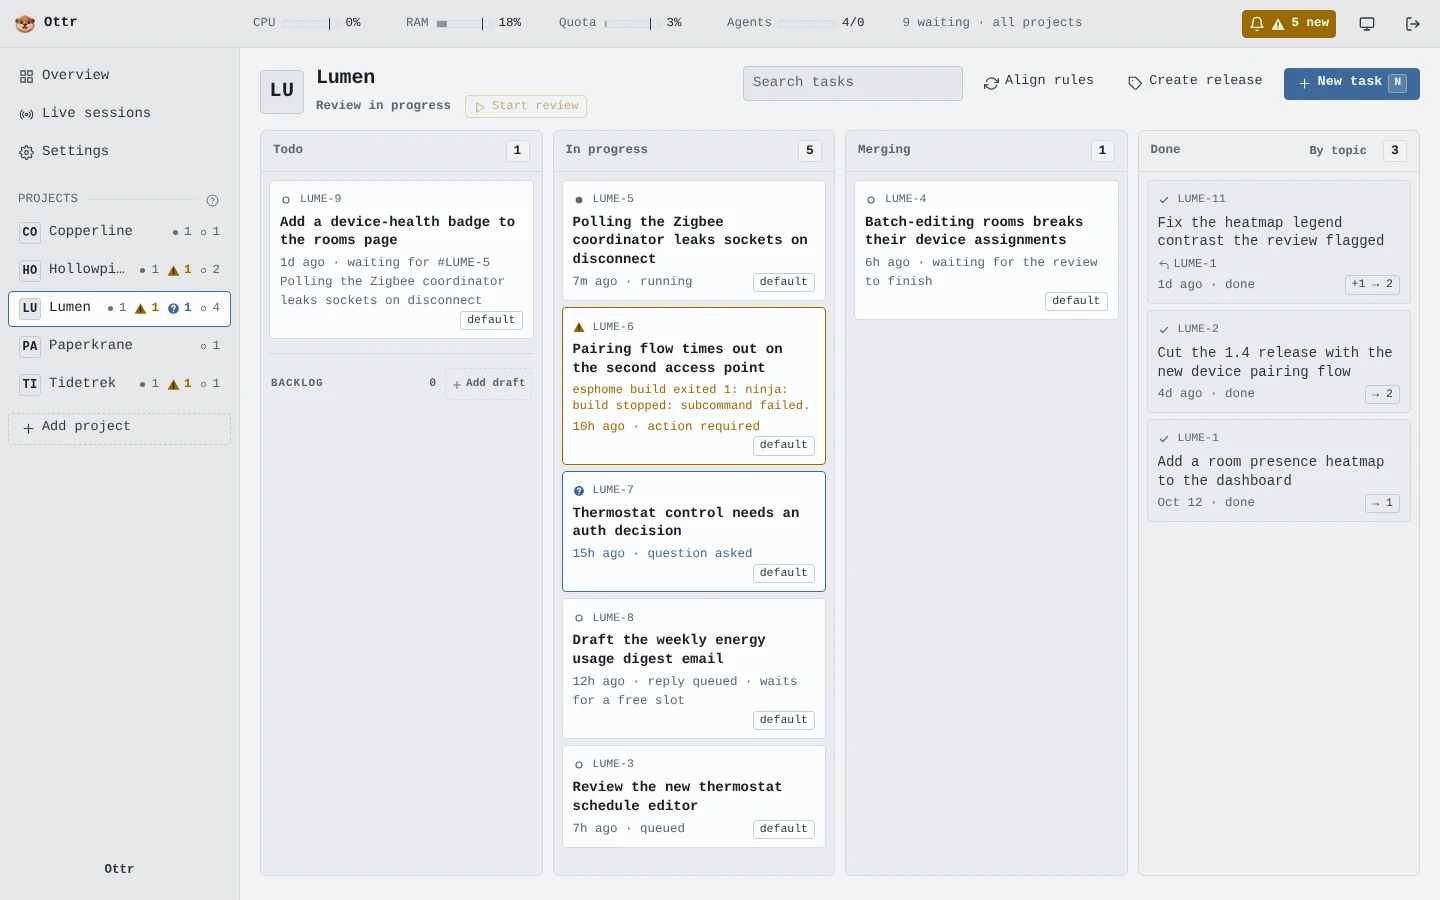
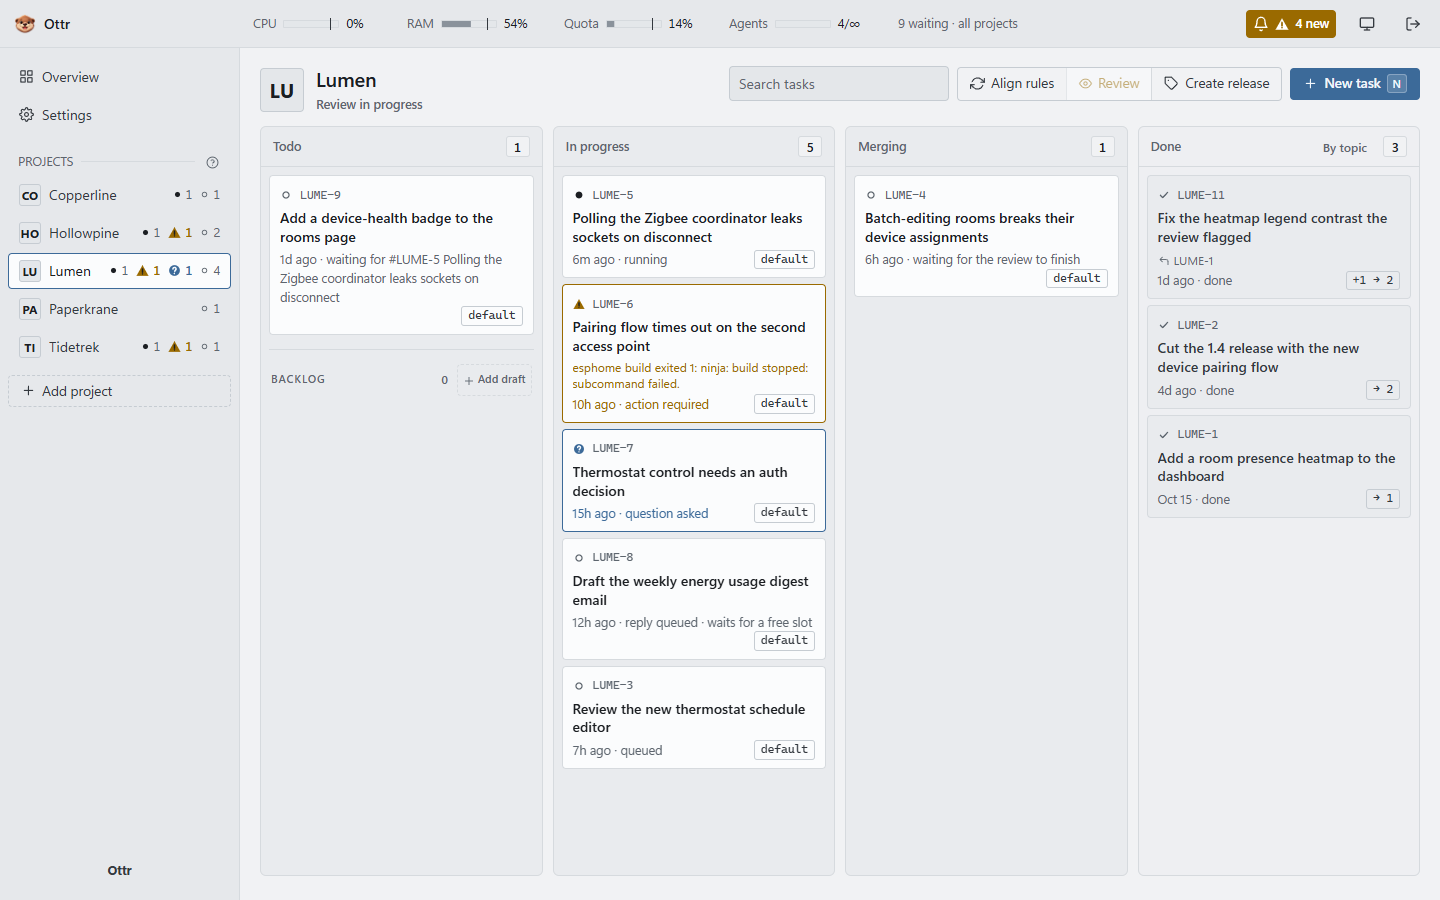
docs: refresh the README screenshot and recommend Hindsight for shared memory
The demo board capped agents at 0 to start none, so the header showed
4/0. The scheduler now starts no card on the demo board, and the board
reports no cap (OMP_TRACKER_MAX_TOTAL=none), as a real board can.

diff --git a/src/turn.test.ts b/src/turn.test.ts
@@ -5797,11 +5797,12 @@ describe("turn cancel, finish-kept and restart recovery", () => {
 		expect(turn.error).toBe("tracker restarted");
 	});
 
-	test("the demo switch keeps seeded running and preparing cards through both sweeps", async () => {
-		const { store, loop } = setup({
+	test("the demo switch keeps seeded cards through both sweeps and starts no queued card", async () => {
+		const { store, record, loop } = setup({
 			pidAlive: () => false,
 			isClean: async () => true,
 			targetSha: async () => "abc123def456",
+			maxTotalRuns: () => null, // the dev board runs with no cap
 		});
 		process.env.OTTR_DEMO = "1";
 		try {
@@ -5809,6 +5810,8 @@ describe("turn cancel, finish-kept and restart recovery", () => {
 			store.startTurn(a.id, "work", "carry on", null);
 			const b = seed(store, { state: "preparing" });
 			store.startTurn(b.id, "work", "carry on", null);
+			store.setSettings({ maxParallel: null }); // only the demo switch may hold it
+			const queued = store.createTask("queued demo card");
 
 			await loop.recoverRestarted();
 			loop.schedule();
@@ -5818,6 +5821,8 @@ describe("turn cancel, finish-kept and restart recovery", () => {
 			expect(store.getTask(b.id)!.state).toBe("preparing");
 			expect(store.listTurns(a.id).at(-1)!.endedAt).toBeNull();
 			expect(store.listTurns(b.id).at(-1)!.endedAt).toBeNull();
+			expect(store.getTask(queued.id)!.state).toBe("queued");
+			expect(record.runs).toHaveLength(0);
 		} finally {
 			delete process.env.OTTR_DEMO;
 		}

diff --git a/src/server.ts b/src/server.ts
@@ -89,7 +89,7 @@ const gstore = GlobalStore.open(STATE_DIR);
 // discovery read them. The persisted project lists load here, before boot discovery: a
 // removed project must stay off the board after a restart.
 const shared: {
-	maxTotalRuns: number;
+	maxTotalRuns: number | null;
 	/** True when a review's findings are checked by a second model before they become cards. */
 	reviewCheck: boolean;
 	/** True when a finished work card is checked by a second model before it enters the merge queue. */
@@ -97,7 +97,11 @@ const shared: {
 	removedPaths: string[]; // projects removed from the board; discovery must not re-find them
 	projectPaths: string[]; // explicitly added projects; discovery finds these even outside the roots
 } = {
-	maxTotalRuns: Number(process.env.OMP_TRACKER_MAX_TOTAL ?? 3),
+	// "none" starts the board with no global cap, like the Settings choice.
+	maxTotalRuns:
+		process.env.OMP_TRACKER_MAX_TOTAL === "none"
+			? null
+			: Number(process.env.OMP_TRACKER_MAX_TOTAL ?? 3),
 	reviewCheck: true,
 	workCheck: true,
 	...storedProjectPaths(gstore),

diff --git a/src/dev.ts b/src/dev.ts
@@ -10,10 +10,10 @@ const { seedDemo } = await import("../scripts/demo-data.ts");
 seedDemo(root);
 process.env.OMP_TRACKER_ROOTS = root;
 process.env.OTTR_STATE_DIR ??= resolve(root, "state");
-// Fabricated running/preparing cards must survive recoverRestarted and sweepLostTurns:
-// no agent processes exist here (maxTotal 0), so both sweeps would only requeue the seed.
+// Fabricated running/preparing cards must survive recoverRestarted and sweepLostTurns, and
+// queued ones must never start: no agent processes exist here. OTTR_DEMO blocks all three.
 process.env.OTTR_DEMO = "1";
-process.env.OMP_TRACKER_MAX_TOTAL = "0";
+process.env.OMP_TRACKER_MAX_TOTAL = "none"; // the header shows n/∞, as on a board with no cap
 process.env.PORT ??= "5747"; // outside 4700-4899, where scripts/e2e-steer.js picks its ports
 // Opts into Bun's HTML dev server (HMR); see the development flag in server.ts.
 process.env.NODE_ENV ??= "development";

diff --git a/src/turn.ts b/src/turn.ts
@@ -761,7 +761,8 @@ export function createTurnLoop(
 		// Counted in distinct keys: a live run sat in both `running` and `preparing`, so the old
 		// sum counted every run twice and the cap bit at half its number. runTurn claims
 		// synchronously, so the count is exact before each start.
-		const cap = ops.maxTotalRuns();
+		// The dev board's fabricated cards must never start a real agent, whatever the cap says.
+		const cap = demoBoard() ? 0 : ops.maxTotalRuns();
 		const active = () => new Set([...running.keys(), ...preparing]).size;
 		for (const e of projects.values()) {
 			try {

diff --git a/src/dev.test.ts b/src/dev.test.ts
@@ -30,7 +30,7 @@ describe("dev board bootstrap", () => {
 			expect(process.env.OTTR_STATE_DIR).toBe(
 				prev.OTTR_STATE_DIR ?? resolve(root, "state"),
 			);
-			expect(process.env.OMP_TRACKER_MAX_TOTAL).toBe("0");
+			expect(process.env.OMP_TRACKER_MAX_TOTAL).toBe("none");
 			// The sweeps must leave the fabricated running/preparing cards alone.
 			expect(process.env.OTTR_DEMO).toBe("1");
 			expect(serverLoads).toHaveLength(1);

diff --git a/README.md b/README.md
@@ -83,6 +83,8 @@ docker compose up -d
 
 The board is then on <http://127.0.0.1:8080>. Optional: `OTTR_PORT`, `HINDSIGHT_API_URL` for fleet memory, and provider keys pass through from the host shell. [docs/WORKERS.md](docs/WORKERS.md) has the full topology, updates and crash story.
 
+Hindsight is the preferred way to share memory between workers. Without `HINDSIGHT_API_URL`, omp keeps its default `mnemopi` memory: a local store in the shared home volume, so only containers on the same host see it. Set the URL to a [Hindsight](https://github.com/vectorize-io/hindsight) server, and every worker on every machine reads and writes the same memory. See [docs/WORKERS.md](docs/WORKERS.md#fleet-memory-hindsight).
+
 ### Bare metal
 
 ```sh
